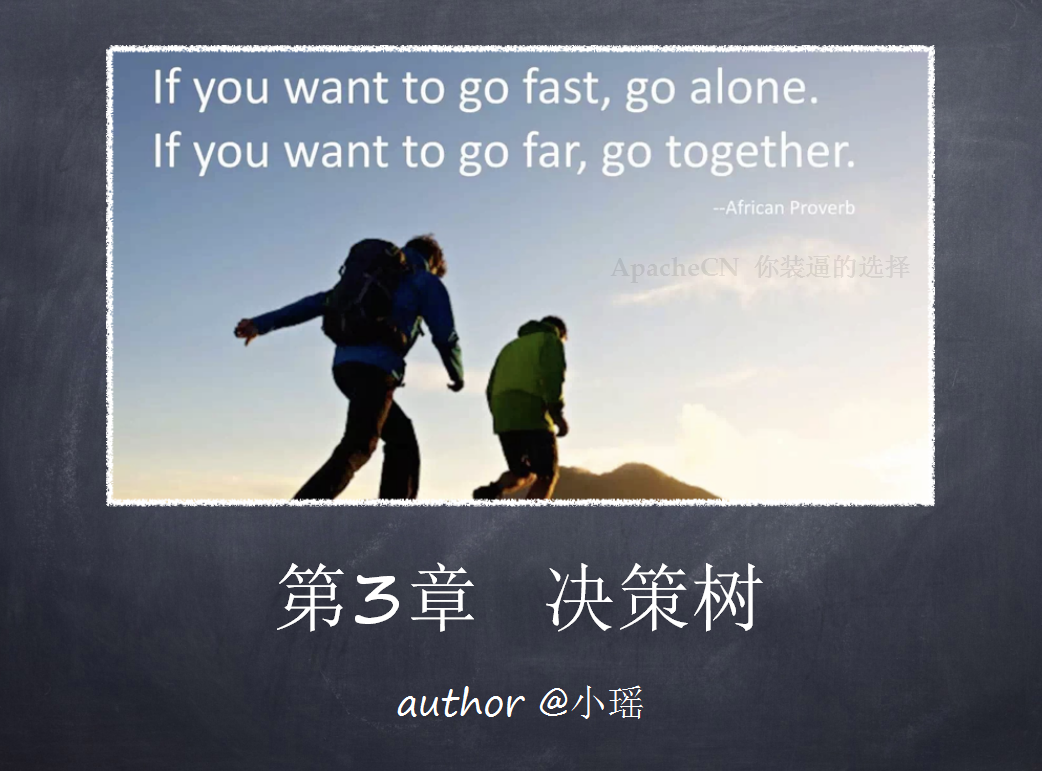
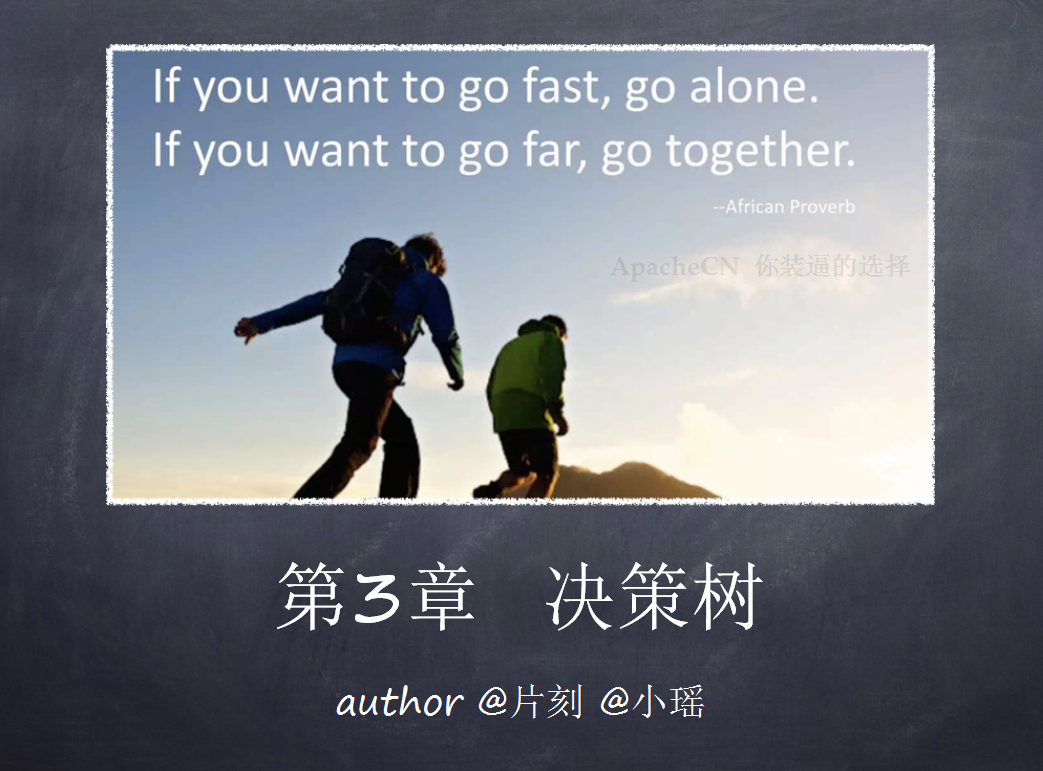
修改2,3,4,5,9首页图片

diff --git a/docs/2.k-近邻算法.md b/docs/2.k-近邻算法.md
@@ -1,7 +1,7 @@
 # 第2章 k-近邻算法
 <script type="text/javascript" src="http://cdn.mathjax.org/mathjax/latest/MathJax.js?config=default"></script>
 
-![k-近邻算法_首页](/images/2.KNN/k-近邻算法首页_xy.png "k-近邻算法首页")
+![k-近邻算法_首页](/images/2.KNN/knn_headPage_xy.png "k-近邻算法首页")
 
 众说周知，电影可以按照题材分类的；而我们却知道每部电影在风格上的确可能和同题材的电影相近。
 那么动作片具有哪些共有特征，使得动作片之间非常相似，而与爱情片存在着明显的差别呢？<br/>
